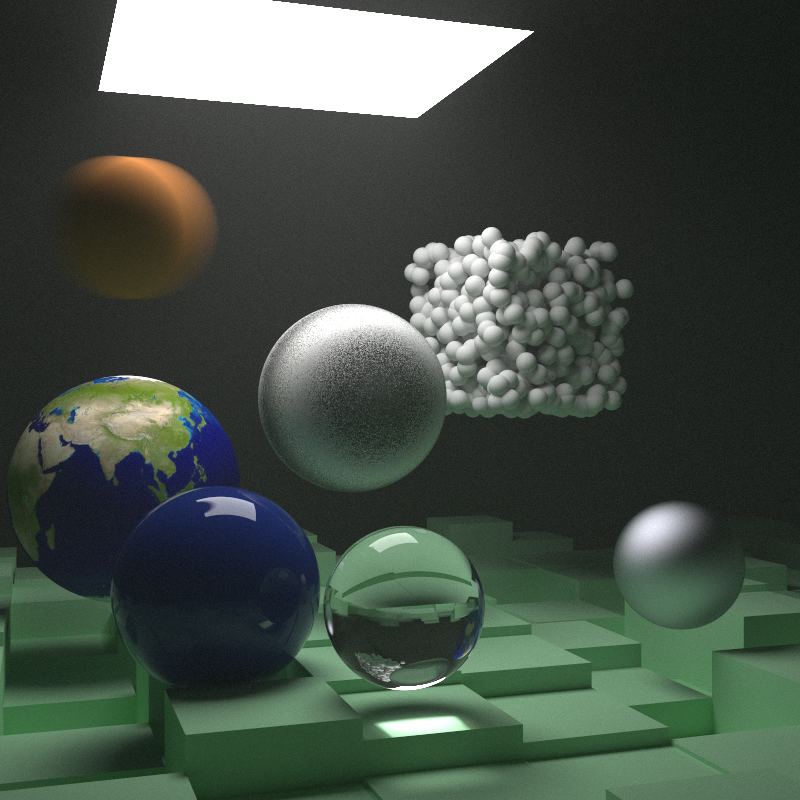
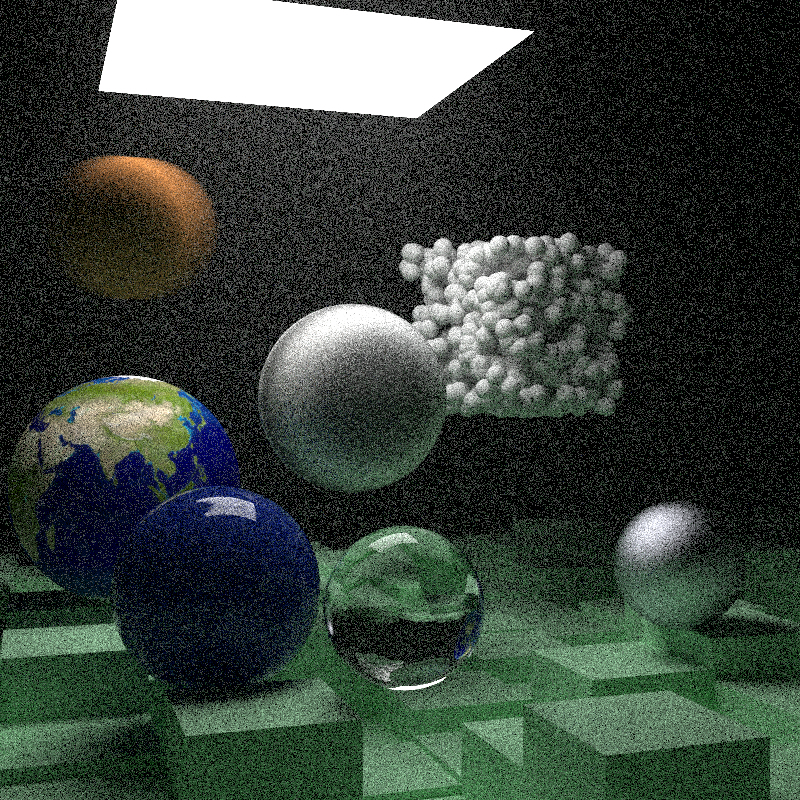
Optimize multithread

diff --git a/raytracer/src/main.rs b/raytracer/src/main.rs
@@ -5,13 +5,14 @@ mod texture;
 
 use console::style;
 use image::{ImageBuffer, RgbImage};
-use indicatif::{MultiProgress, ProgressBar, ProgressStyle};
+use indicatif::{HumanDuration, MultiProgress, ProgressBar, ProgressStyle};
 use rand::Rng;
 use std::{
     fs::File,
     process::exit,
     sync::{mpsc, Arc},
     thread,
+    time::Instant,
 };
 
 use basic::camera::Camera;
@@ -30,14 +31,21 @@ fn main() {
     print!("{}[2J", 27 as char); // Clear screen
     print!("{esc}[2J{esc}[1;1H", esc = 27 as char); // Set cursor position as 1,1
 
+    let begin_time = Instant::now();
+    println!(
+        "{} 💿 {}",
+        style("[1/5]").bold().dim(),
+        style("Initlizing...").green()
+    );
+
     // Image
     let path = "output/output.jpg";
     const IMAGE_WIDTH: u32 = 800;
     const IMAGE_HEIGHT: u32 = 800;
     const ASPECT_RATIO: f64 = IMAGE_WIDTH as f64 / IMAGE_HEIGHT as f64;
     const IMAGE_QUALITY: u8 = 100; // From 0 to 100
-    const SAMPLES_PER_PIXEL: i32 = 10000;
-    const MAX_DEPTH: i32 = 60;
+    const SAMPLES_PER_PIXEL: i32 = 100;
+    const MAX_DEPTH: i32 = 50;
     const THREAD_NUMBER: u32 = 8;
     const SECTION_LINE_NUM: u32 = IMAGE_HEIGHT / THREAD_NUMBER;
 
@@ -81,6 +89,23 @@ fn main() {
         time1,
     );
 
+    println!(
+        "{} 🚀 {} {} {}",
+        style("[2/5]").bold().dim(),
+        style("Rendering with").green(),
+        style(THREAD_NUMBER.to_string()).yellow(),
+        style("Threads...").green(),
+    );
+
+    // Random line
+    let mut random_line_id: Vec<u32> = Vec::new();
+    let mut rng = rand::thread_rng();
+    for i in 0..IMAGE_HEIGHT {
+        random_line_id.push(i);
+        let target = rng.gen_range(0..i + 1);
+        random_line_id.swap(i as usize, target as usize);
+    }
+
     // Progress bar
     let multiprogress = Arc::new(MultiProgress::new());
     multiprogress.set_move_cursor(true);
@@ -91,6 +116,7 @@ fn main() {
 
     for thread_id in 0..THREAD_NUMBER {
         // line
+        let line_id = random_line_id.clone();
         let line_beg = thread_id * SECTION_LINE_NUM;
         let mut line_end = line_beg + SECTION_LINE_NUM;
         if thread_id == THREAD_NUMBER - 1 {
@@ -118,8 +144,9 @@ fn main() {
                 let mut section_pixel_color = Vec::<Color>::new();
 
                 let mut rng = rand::thread_rng();
-                for y in line_beg..line_end {
+                for y_id in line_beg..line_end {
                     for x in 0..IMAGE_WIDTH {
+                        let y = line_id[y_id as usize];
                         let mut pixel_color = Color::new(0., 0., 0.);
                         for _i in 0..SAMPLES_PER_PIXEL {
                             let rand_u: f64 = rng.gen();
@@ -142,7 +169,12 @@ fn main() {
     }
     multiprogress.join().unwrap();
 
-    let mut thread_finish = true;
+    println!(
+        "{} 🚛 {}",
+        style("[3/5]").bold().dim(),
+        style("Collecting Threads Results...").green(),
+    );
+
     for _thread_id in 0..THREAD_NUMBER {
         let thread = thread_pool.remove(0);
         match thread.0.join() {
@@ -151,26 +183,35 @@ fn main() {
                 output_pixel_color.append(&mut received);
             }
             Err(_) => {
-                thread_finish = false;
+                println!("Thread error");
+                exit(0);
             }
         }
     }
 
-    if !thread_finish {
-        println!("run time error");
-        exit(0);
-    }
+    println!(
+        "{} 🏭 {}",
+        style("[4/5]").bold().dim(),
+        style("Generating Image...").green()
+    );
 
     let mut img: RgbImage = ImageBuffer::new(IMAGE_WIDTH, IMAGE_HEIGHT);
     let mut pixel_id = 0;
-    for y in 0..IMAGE_HEIGHT {
+    for y_id in 0..IMAGE_HEIGHT {
         for x in 0..IMAGE_WIDTH {
+            let y = random_line_id[y_id as usize];
             let pixel_color = output_pixel_color[pixel_id];
             let pixel = img.get_pixel_mut(x, IMAGE_HEIGHT - y - 1);
             *pixel = image::Rgb(write_color(pixel_color, SAMPLES_PER_PIXEL));
             pixel_id += 1;
         }
     }
+
+    println!(
+        "{} 🥽 {}",
+        style("[5/5]").bold().dim(),
+        style("Outping Image...").green()
+    );
 
     // ==================== afterwork ====================
 
@@ -186,6 +227,13 @@ fn main() {
         // Err(_) => panic!("Outputting image fails."),
         Err(_) => println!("{}", style("Outputting image fails.").red()),
     }
+
+    println!(
+        "\n      🎉 {}\n      🕒 Elapsed Time: {}",
+        style("All Work Done.").bold().green(),
+        style(HumanDuration(begin_time.elapsed())).yellow(),
+    );
+    println!("\n");
 
     exit(0);
 }

diff --git a/README.md b/README.md
@@ -2,61 +2,12 @@
 
 ## 进度
 ### Book1
-
-- [x] 1  Overview
-
-- [x] 2  Output an Image
-
-- [x] 3  The vec3 Class
-
-- [x] 4  Rays, a Simple Camera, and Background
-
-- [x] 5  Adding a Sphere
-
-- [x] 6  Surface Normals and Multiple Objects
-
-- [x] 7  Antialiasing
-
-- [x] 8  Diffuse Materials
-
-- [x] 9  Metal
-
-- [x] 10  Dielectrics
- 
-- [x]  11  Positionable Camera
- 
-- [x]  12  Defocus Blur
- 
-- [x]  13  Where Next?
-
 #### Final Scene
 ![image21.jpg](https://s2.loli.net/2022/07/11/LAwbMrnKt8vNieS.jpg)
 
 ### Book2
-
-- [x] 1  Overview
-
-- [x] 2  Motion Blur
-
-- [x] 3  Bounding Volume Hierarchies
-
-- [x] 4  Solid Textures
-
-- [x] 5  Perlin Noise
-
-- [x] 6  Image Texture Mapping
-
-- [x] 7  Rectangles and Lights
-
-- [x] 8  Instances
-
-- [x] 9  Volumes
-
-- [x] 10  A Scene Testing All New Features
-
-#### Now Scene
-
-![output.jpg](https://raw.githubusercontent.com/Jerx2y/Raytracer-Assignment-2022/master/output/output.jpg)
+#### Final Scene
+![output.jpg](https://s2.loli.net/2022/07/17/SJkvCEGfYmT6Dsb.jpg)
 
 ## 课程介绍
 
